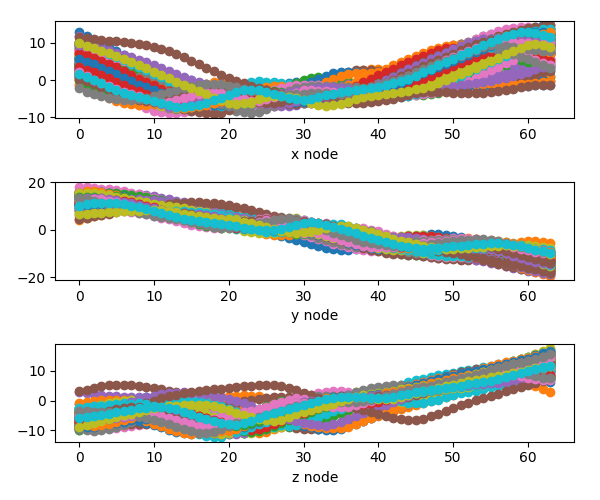
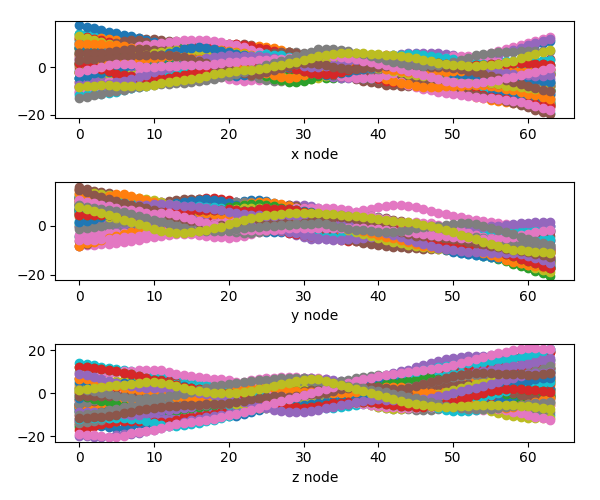
加上了aneurisk并用PCA测试，结果并不好，需要检查

diff --git a/save_data/!_23-08-01-20-05-31/variant_PCA.py b/save_data/!_23-08-01-20-05-31/variant_PCA.py
@@ -76,7 +76,7 @@ for idx in range(len(pre_files)):
     # print (filename)
     pt, Curv, Tors, Radius, Abscissas, ptns, ftangent, fnormal, fbinormal = GetMyVtk(pre_files[idx], frenet=1)
     Files.append(pre_files[idx])
-    unaligned_curves.append(pt-np.mean(pt, axis=0))
+    unaligned_curves.append(pt)
     radii.append(Radius)
     Curvatures.append(Curv)
     Torsions.append(Tors)
@@ -110,7 +110,7 @@ aneurisk_file = glob.glob("./aneurisk/aligned/*.vtk")
 aneurisk_curves = []
 for idx in range(len(aneurisk_file)):
     pt, Curv, Tors, Radius, Abscissas, ptns, ftangent, fnormal, fbinormal = GetMyVtk(aneurisk_file[idx], frenet=1)
-    aneurisk_curves.append(pt-np.mean(pt, axis=0))
+    aneurisk_curves.append(pt)
 aneurisk_curves = np.array(aneurisk_curves)
 
 print ("全データ（{}）を読み込みました。".format(len(pre_files)))
@@ -130,6 +130,7 @@ Procrustes_curves = align_procrustes(a_curves,base_id=base_id) # 这里要使用
 Procrustes_aneurisk_curves = align_procrustes(a_aneurisk_curves,base_id=-2, external_base_curve=Procrustes_curves[base_id]) 
 print ("procrustes alignment done.")
 
+print ("!!")
 # interpolated_curves = []
 # for i in range(len(curves)):
 #     curve = curves[i]
@@ -217,14 +218,9 @@ Pcalign_srvf_curves = np.zeros_like(Aligned_curves)
 for i in range(len(Procrustes_curves)):
     Pcalign_srvf_curves[i] = calculate_srvf(Aligned_curves[i])
     Procs_srvf_curves[i] = calculate_srvf(Procrustes_curves[i])
-# aneurisk SRVF 计算
-Procs_aneurisk_srvf_curves = np.zeros_like(Procrustes_aneurisk_curves)
-Pcalign_aneurisk_srvf_curves = np.zeros_like(Aligned_anurisk_curves)
-for i in range(len(Procrustes_aneurisk_curves)):
-    Pcalign_aneurisk_srvf_curves[i] = calculate_srvf(Aligned_anurisk_curves[i])
-    Procs_aneurisk_srvf_curves[i] = calculate_srvf(Procrustes_aneurisk_curves[i])
 
 # Geodesic计算
+log.write("- Geodesic distance is computed by SRVR, this is the only way that makes sense.\n")
 Procrustes_geodesic_d = compute_geodesic_dist(Procrustes_curves)
 Aligned_geodesic_d = compute_geodesic_dist(Aligned_curves)
 Procrustes_srvf_geodesic = compute_geodesic_dist(Procs_srvf_curves)
@@ -376,11 +372,7 @@ for loop in range(6):
     train_srvf_aligned_geo_d = compute_geodesic_dist(pcalign_srvf_curves[:train_num])
     test_srvf_procrustes_geo_d = compute_geodesic_dist(procs_srvf_curves[train_num:],curve_A=np.mean(procs_srvf_curves[:train_num],axis=0))
     test_srvf_aligned_geo_d = compute_geodesic_dist(pcalign_srvf_curves[train_num:],curve_A=np.mean(pcalign_srvf_curves[:train_num],axis=0))
-    aneurisk_procrustes_geodesic_d = compute_geodesic_dist(Procrustes_aneurisk_curves,curve_A=np.mean(procrustes_curves[:train_num],axis=0))
-    aneurisk_aligned_geodesic_d = compute_geodesic_dist(Aligned_anurisk_curves,curve_A=np.mean(procrustes_curves[:train_num],axis=0))
-    aneurisk_srvf_procrustes_geo_d = compute_geodesic_dist(Procs_aneurisk_srvf_curves,curve_A=np.mean(procs_srvf_curves[:train_num],axis=0))
-    aneurisk_srvf_aligned_geo_d = compute_geodesic_dist(Pcalign_aneurisk_srvf_curves,curve_A=np.mean(pcalign_srvf_curves[:train_num],axis=0))
-
+    aneurisk_procrustes_geodesic_d = compute_geodesic_dist(Procrustes_aneurisk_curves)
     train_files = files[:train_num]
     test_files = files[train_num:]
 
@@ -404,19 +396,6 @@ for loop in range(6):
     'SRVF_Procrustes_geodesic_dist': [train_srvf_procrustes_geo_d, test_srvf_procrustes_geo_d]
     }
     
-    aneu_dict = {
-        'Variance_aligned': Aligned_anurisk_curves,
-        'Procrustes_aligned': Procrustes_aneurisk_curves,
-        'Variance_aligned_SRVF': Pcalign_aneurisk_srvf_curves,
-        'Procrustes_aligned_SRVF': Procs_aneurisk_srvf_curves
-    }
-
-    aneu_dist_dict = {
-        'Variance_geodesic_dist': aneurisk_aligned_geodesic_d,
-        'Procrustes_geodesic_dist': aneurisk_procrustes_geodesic_d,
-        'SRVF_Variance_geodesic_dist': aneurisk_srvf_aligned_geo_d,
-        'SRVF_Procrustes_geodesic_dist': aneurisk_srvf_procrustes_geo_d
-    }
 
     loop_log.write("***\n")
     ###############################################
@@ -430,7 +409,6 @@ for loop in range(6):
         train_data, test_data = data_values  # 取出列表中的两个值
         train_data=train_data.reshape(train_num,-1)
         test_data=test_data.reshape(test_num,-1)
-
         coord_PCAs.append(PCAHandler(train_data, test_data,standardization=pca_standardization))
         coord_PCAs[-1].PCA_training_and_test()
         components_figname = save_new_shuffle+"coord_componentse_{}.png".format(data_key)
@@ -445,26 +423,9 @@ for loop in range(6):
         coord_PCAs[-1].plot_scatter_kde(save_new_shuffle+"coord_scatter_kde_{}.png".format(data_key))
         coord_PCAs[-1].compute_kde()
         print ("Coords,", data_key, "JS divergence:", coord_PCAs[-1].compute_train_test_js_divergence())
-        aneurisk_value = aneu_dict[data_key]
-        aneurisk_data = (aneurisk_value.reshape(len(aneurisk_value),-1)-coord_PCAs[-1].train_mean)/coord_PCAs[-1].train_std # standardization
-        aneurisk_res = coord_PCAs[-1].pca.transform(aneurisk_data)
-        plt.scatter(coord_PCAs[-1].train_res[:,0], coord_PCAs[-1].train_res[:,1], c="r", label="train")
-        plt.scatter(coord_PCAs[-1].test_res[:,0], coord_PCAs[-1].test_res[:,1], c="b", label="test")
-        plt.scatter(aneurisk_res[:,0], aneurisk_res[:,1], c="g", label="aneurisk")
-        for q in range(len(coord_PCAs[-1].train_res)):
-            plt.text(coord_PCAs[-1].train_res[q,0], coord_PCAs[-1].train_res[q,1], train_files[q].split("\\")[-1].split(".")[0][:-8])
-        for q in range(len(coord_PCAs[-1].test_res)):
-            plt.text(coord_PCAs[-1].test_res[q,0], coord_PCAs[-1].test_res[q,1], test_files[q].split("\\")[-1].split(".")[0][:-8])
-        for q in range(len(aneurisk_res)):
-            plt.text(aneurisk_res[q,0], aneurisk_res[q,1], aneurisk_file[q].split("\\")[-1].split(".")[0])
-        plt.legend()
-        # plt.show()
-        plt.savefig(save_new_shuffle+"aneurisk_coord_scatter_{}.png".format(data_key))
-        plt.close()
         for dist_key, dist_values in dist_dict.items():
             Scores.append(ScoreHandler(data_name="Coords"+data_key, dist_name=dist_key, dist=dist_values[0], pca_result=coord_PCAs[-1].train_res, train=1))
             Scores.append(ScoreHandler(data_name="Coords"+data_key, dist_name=dist_key, dist=dist_values[1], pca_result=coord_PCAs[-1].test_res, train=0))
-            # coord_PCAs[-1].
             
     loop_log.write("***\n")
 

diff --git a/myvtk/centerline_preprocessing.py b/myvtk/centerline_preprocessing.py
@@ -22,9 +22,15 @@ from geomstats.geometry.hypersphere import HypersphereMetric
 from scipy.spatial import distance
 # 创建一个新的目录来保存变换后的曲线
 
-def align_procrustes(curves,base_id=0):
+def align_procrustes(curves,base_id=0, external_base_curve=None):
     # 使用第一条曲线作为基准曲线
-    base_curve = curves[base_id]
+    if base_id > -1:
+        base_curve = curves[base_id]
+    elif base_id == -1:
+        base_curve = np.mean(curves, axis=0)
+    elif base_id == -2:
+        base_curve = external_base_curve
+
     new_curves = []
     
     for i in range(len(curves)):
@@ -96,7 +102,7 @@ def align_curve(curve):
     curve_centered_2d = curve_centered.reshape(-1, curve_centered.shape[1]*curve_centered.shape[2])
 
     # 计算PCA
-    pca = PCA(n_components=50)
+    pca = PCA(n_components=58)
     curve_pca = pca.fit_transform(curve_centered_2d)
     curve_pca = pca.inverse_transform(curve_pca)
     # print ("curve_pca.shape:", curve_pca.shape)
@@ -106,13 +112,15 @@ def align_curve(curve):
 
     return curve_pca
 
-def align_icp(curves,base_id=80):
+def align_icp(curves,base_id=80, external_std_curve=None):
     # 使用第一条曲线作为基准曲线
     new_curves = []
     if base_id > -1:
         base_curve = curves[base_id]
     elif base_id == -1:
         base_curve = np.mean(curves, axis=0)
+    elif base_id == -2:
+        base_curve = external_std_curve
     
     for i in range(len(curves)):
         curve = curves[i]
@@ -140,9 +148,10 @@ def align_icp(curves,base_id=80):
 
     return np.array(new_curves)
 
-def compute_geodesic_dist(curves):
+def compute_geodesic_dist(curves,curve_A=None):
     geodesic_d = []
-    curve_A = np.mean(curves, axis=0)
+    if curve_A is None:
+        curve_A = np.mean(curves, axis=0)
     for idx in range(len(curves)):
         curve_B = curves[idx]
         # 创建离散曲线对象
